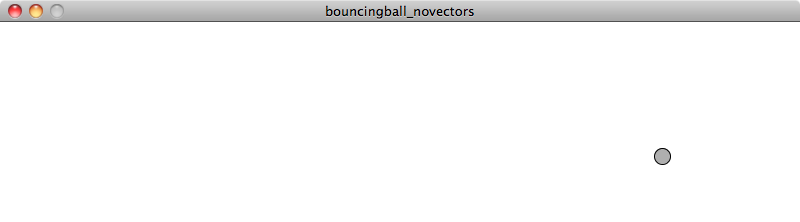
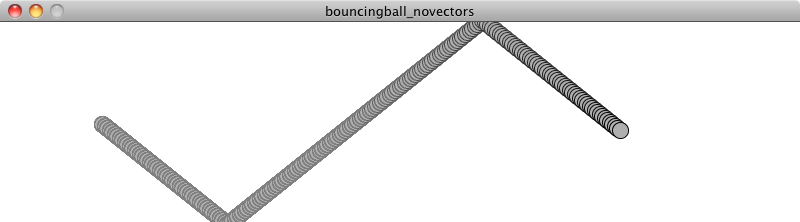
misc chapter one fixes including half-widht images at 48% with 17 pixel right margin i think this is right?

Changed region(s): [[0.0938, 0.027, 0.8125, 1.0], [0.8125, 0.6486, 0.8438, 0.7568]]

diff --git a/public/noc_html/index.html b/public/noc_html/index.html
@@ -24,7 +24,6 @@
 	
 	<p class="caption">imgs/chapter01_1-01.png</p>
 </div>
-<p><span class="notetoself">REDO THIS DIAGRAM NOW TO FIT NEW DEFINITION</span></p>
 <p>In the diagram above, the vector is drawn as an arrow from point A to point B and serves as an instruction for how to travel from A to B.</p>
 <a name="_1_1_vectors_you_complete_me"></a>
 <h2>1.1 Vectors, You Complete Me</h2>
@@ -35,7 +34,7 @@
 		<p>Your browser does not support the canvas tag.</p>
 	</canvas>
 	
-	<p class="caption">imgs/chapter01_2-01.png</p>
+	<p class="caption">If you are reading this book as a PDF or in print, then you will only see screenshots of the code. Motion, of course, is a key element of our discussion, so to the extent possible, the static screenshots will include trails to give a sense of the behavior. For more about how to draw trails, see the code examples available for download.</p>
 </div>
 <a name="_example_1_1_bouncing_ball_with_no_vectors"></a>
 <h3>Example 1.1: Bouncing ball with no vectors</h3>
@@ -137,6 +136,16 @@ void draw() {
   <button class="toggle" data-to-raw='Show Raw' data-to-formatted='Show Formatted'>Show Raw</button>
 </div>
 <p>In the above example, we have a very simple world—a blank canvas with a circular shape (a “ball”) traveling around.  This ball has some properties, which are represented in the code as variables.</p>
+<p>Table "[options=""header,footer""]</p>
+<p>heading</p>
+<p>heading</p>
+<p>heading</p>
+<p>field</p>
+<p>field</p>
+<p>field</p>
+<p>field</p>
+<p>field</p>
+<p>field</p>
 <p><strong><em>LOCATION:</em></strong><strong><em>x and y</em></strong><br /><strong><em>SPEED:</em></strong><strong><em>xspeed and yspeed</em></strong><br /></p>
 <p>In a more advanced sketch, we could imagine having many more variables:</p>
 <p><strong><em>ACCELERATION:</em></strong><strong><em>xacceleration and yacceleration</em></strong><br /><strong><em>TARGET LOCATION:</em></strong><strong><em>xtarget and ytarget</em></strong><br /><strong><em>WIND:</em></strong><strong><em>xwind and ywind</em></strong><br /><strong><em>FRICTION:</em></strong><strong><em>xfriction and yfriction</em></strong><br /></p>
@@ -235,7 +244,6 @@ Vector speed;</textarea>
 	
 	<p class="caption">imgs/chapter01_5-01.png</p>
 </div>
-<p><span class="notetoself">CONSIDER COMBINING / INTEGRATING THIS DIAGRAM WITH PREVIOUS ONE BETTER</span></p>
 <p>Nevertheless, another way to describe a location is the path taken from the origin to reach that location. Hence, a location can be the vector representing the difference between location and origin.</p>
 <p>Let’s examine the underlying data for both location and velocity.  In the bouncing ball example we had the following:</p>
 <p>location —> <span class="var">x</span>,<span class="var">y

diff --git a/public/noc_html/stylesheets/html.css b/public/noc_html/stylesheets/html.css
@@ -66,7 +66,7 @@ p {
   margin-top: 1.2em;
   margin-bottom: 1.2em;
   position: relative;
-  width: 50%;
+  width: 48%;
   -webkit-box-sizing: border-box;
   -moz-box-sizing: border-box;
   box-sizing: border-box;
@@ -74,7 +74,7 @@ p {
 
 .half-width {
   float: left;
-  margin-right: 10px;
+  margin-right: 17px;
 }
 
 .half-width-right {
@@ -112,6 +112,11 @@ img.screenshot {
 .function {
 	color: #285476;
 	font-weight: bold;
+}
+
+.var {
+	color: #000000;
+	font-style: italic;
 }
 
 /* Style note to self */
